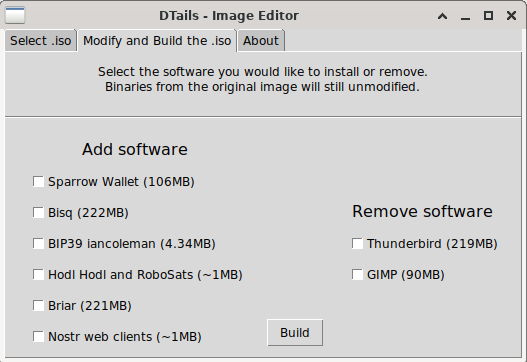
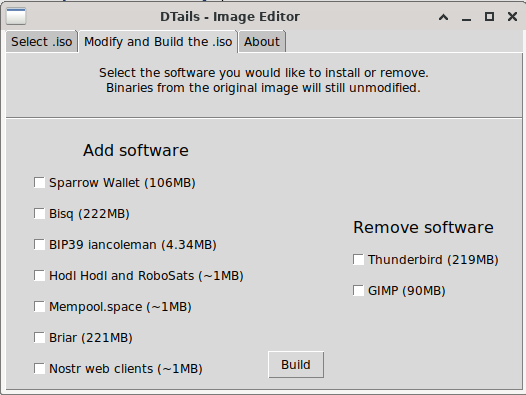
Mempool.space added

diff --git a/dtails.py b/dtails.py
@@ -67,6 +67,7 @@ class MyApp(tk.Tk):
         self.create_checkbox(left_frame, "Bisq (222MB)", "")
         self.create_checkbox(left_frame, "BIP39 iancoleman (4.34MB)", "")
         self.create_checkbox(left_frame, "Hodl Hodl and RoboSats (~1MB)", "")
+        self.create_checkbox(left_frame, "Mempool.space (~1MB)", "")
         self.create_checkbox(left_frame, "Briar (221MB)", "")
         self.create_checkbox(left_frame, "Nostr web clients (~1MB)", "gobbler")
 
@@ -130,6 +131,11 @@ class MyApp(tk.Tk):
             if function == "iso_work":
                 iso_work_path = self.file_path.get()
                 iso_work(iso_work_path)
+            elif '.' in function:
+                print(function)
+                function = function.replace(".", "_")
+                function = eval(function)
+                function()
             else:
                 print(function)
                 function = eval(function)

diff --git a/commands.py b/commands.py
@@ -85,6 +85,15 @@ def hodl_hodl_and_robosats():
     add_script_config("\ncp /tmp/robosats.png /opt/logos/")
     add_script_config("\ncp /tmp/hodlhodl.png /opt/logos/")
 
+def mempool_space():
+    subprocess.run("cp dotfiles/dotdesktop/mempool_space.desktop shared_with_chroot/", shell=True)
+    add_script_config("\ncp /tmp/mempool_space.desktop /usr/share/applications/")
+    add_script_config("\nmkdir /opt/logos/")
+    subprocess.run("cp dotfiles/logos/mempool_space.png shared_with_chroot/", shell=True)
+    add_script_config("\ncp /tmp/mempool_space.png /opt/logos/")
+
+
+
 def thunderbird():
     add_script_config("\ndpkg -r --force-depends thunderbird")
 
